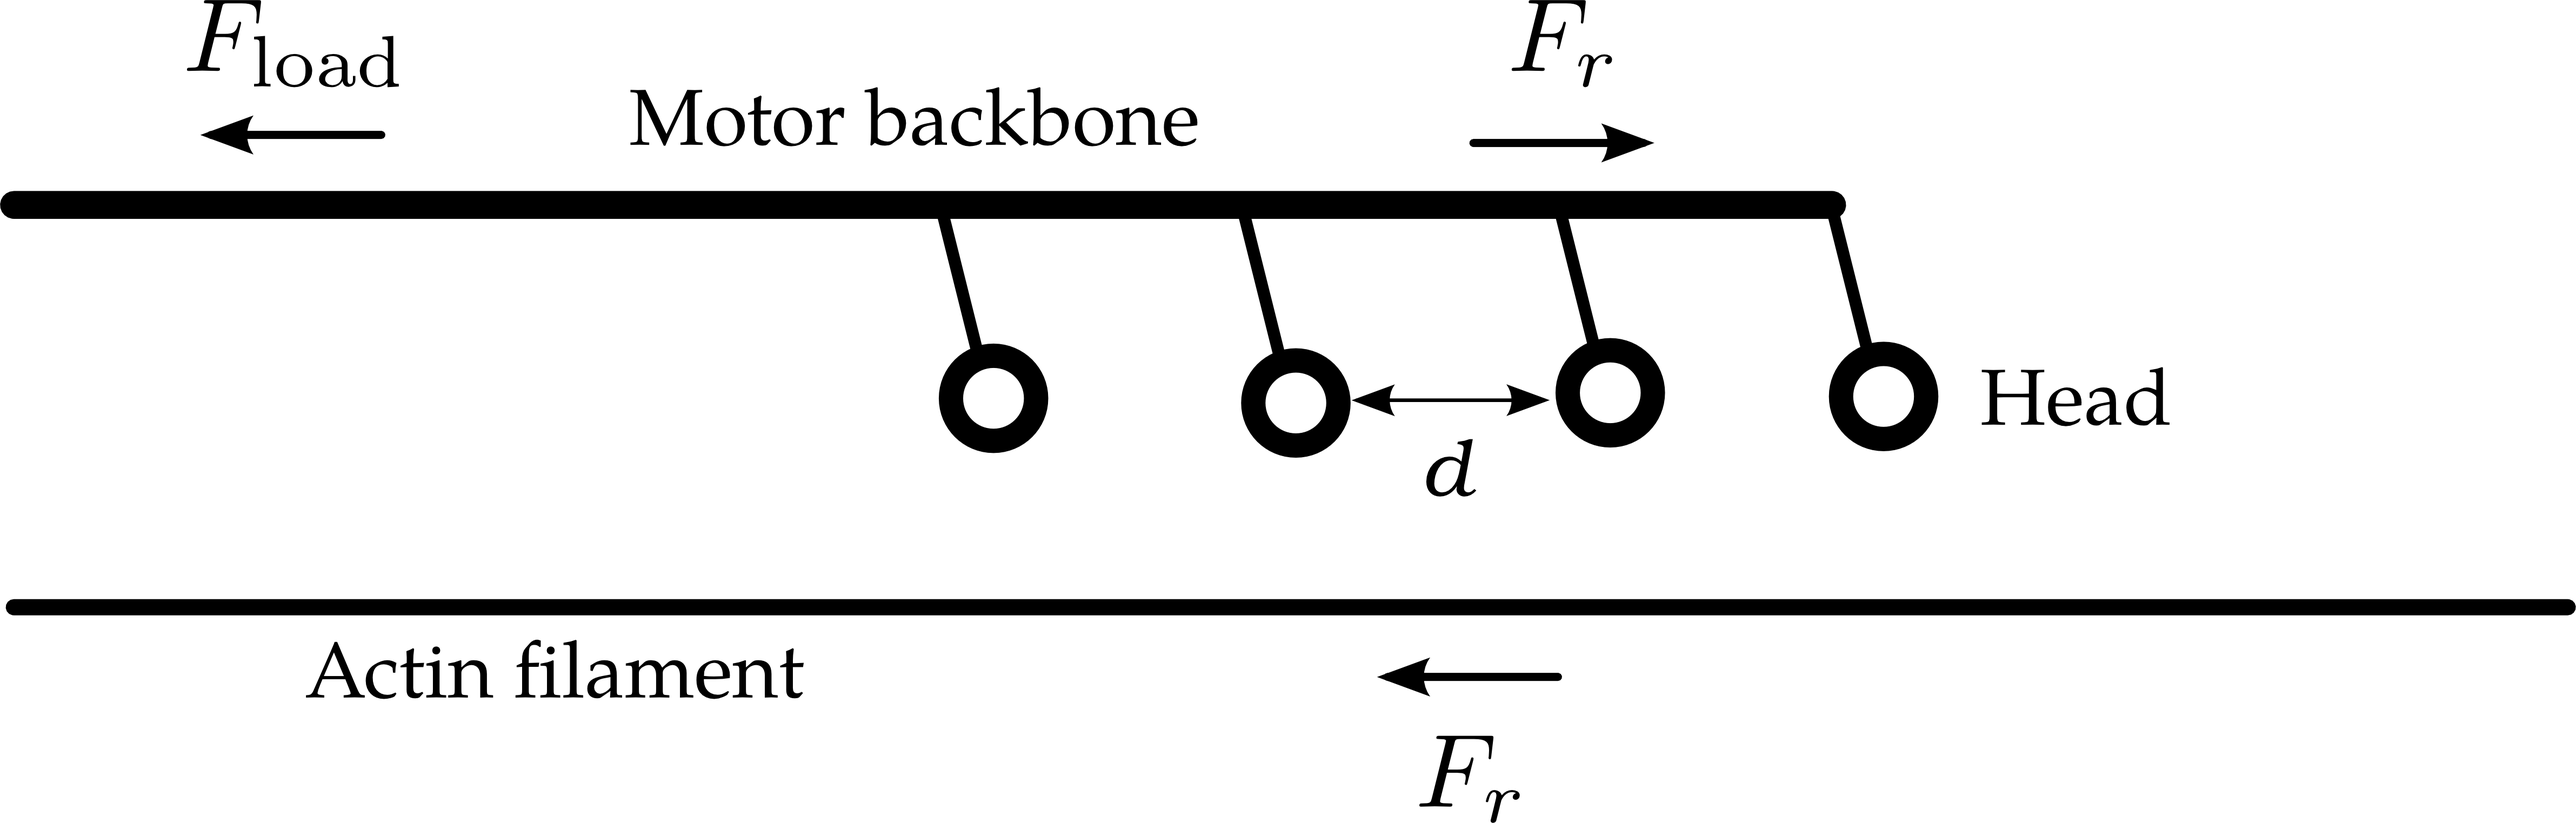
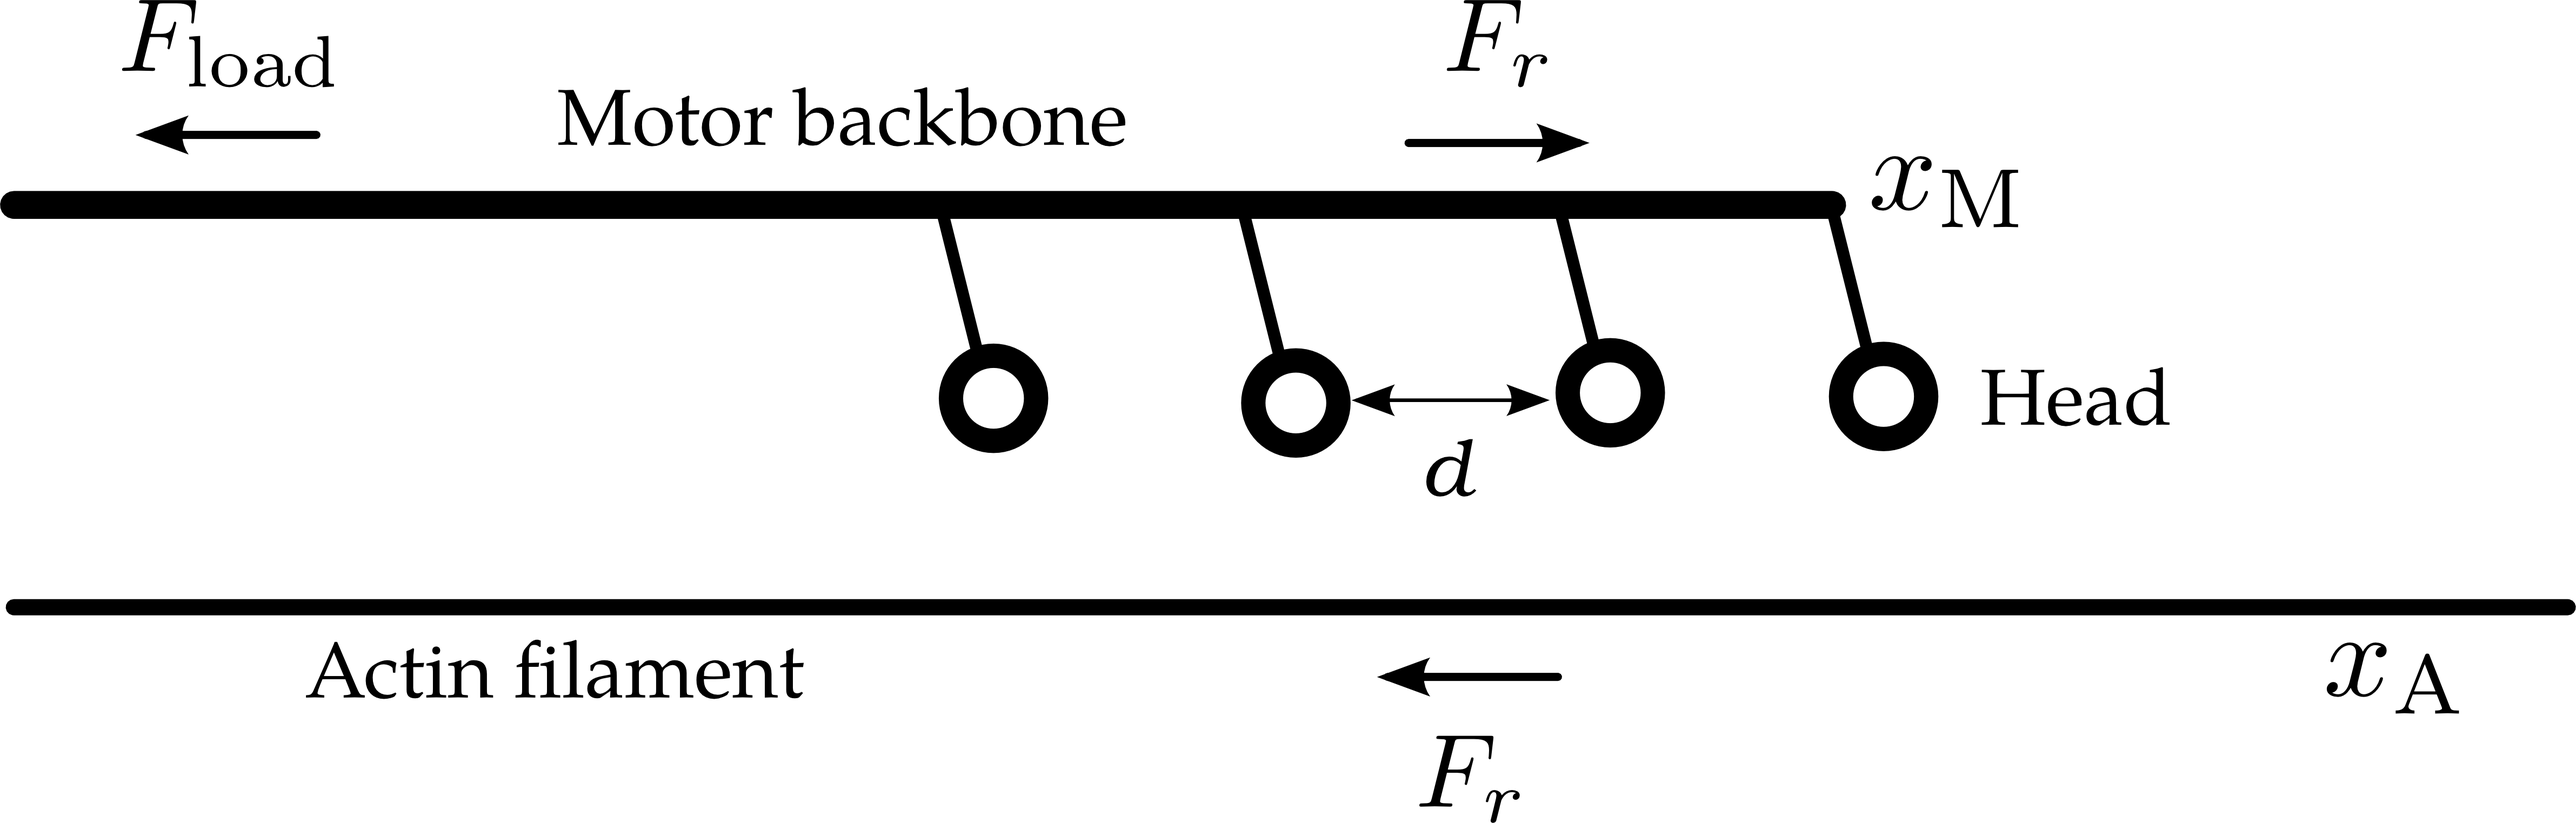
Referrences and illustration labels  Committer: Pieter Baerts <pieter@lp-pieter>
On branch master
 Your branch is behind 'origin/master' by 1 commit, and can be fast-forwarded.
   (use "git pull" to update your local branch)

 Changes to be committed:
	modified:   Ratchet.tex
	modified:   ratchet_illustration.png
	modified:   ratchet_illustration.svg

diff --git a/Ratchet.tex b/Ratchet.tex
@@ -183,8 +183,14 @@ where $x_\text{M}$ denotes the position of the motor's first head,
 $x_\text{A}$ denotes the position of an arbitrary reference point on the actin filament, 
 $\gamma$ is the Stokes drag,
 $T$ is the absolute temperature of the environment,
-$W_\text{M}$ and $W_\text{A}$ denote independent Wiener processes,
-$F_\text{load}$ is an external load on the motor, 
+$W_\text{M}$ and $W_\text{A}$ denote independent Wiener processes
+ for which
+\begin{eqnarray*}
+&\langle W_\text{X}(t)\rangle = 0,&\\
+&\langle W_\text{X}(t)W_\text{X}(s)\rangle = \text{min}\{t,s\}& ,\\
+&\langle W_\text{A}(t)W_\text{M}(t)\rangle = 0,&
+\end{eqnarray*}
+with $\text{X}$ referring to the labels $\text{A}$ and $\text{M}$, $F_\text{load}$ is an external load on the motor, 
 and the interaction potential $V_t$ represents the overall ratchet interaction, 
 which is the sum over individual contributions from all motor heads,
 \begin{equation}
@@ -502,7 +508,7 @@ Deviating far from this ratio means that one of the states become dominant and t
 The main difference between $\lambda_\text{b}/\lambda_\text{u}$ being low or high is the mean amplitude of the interaction with actin. 
 In the ATP bound state the interaction is weaker, 
 which is reflected in the fact that the system is trapped for shorter times close to the local minima and diffuses more. 
-Hence, the variance of the relative velocity is higher when compared to the ATP unbound state. 
+Hence, the variance of the relative velocity is higher when compared to the ATP unbound state. We can conclude that the model achieves mean relative velocities that agrees with experimental values \cite{placcais2009spontaneous,saito1994movement}.
 
 
 \subsection{Force--velocity relation}
@@ -575,7 +581,7 @@ The intersections with the horizontal axis correspond to stall forces,
 while intersections of the curves with the vertical axis correspond to the mean velocities for system without any external load, compare Fig.~\ref{fig:v_k}. 
 We see that for small loads the mean velocity decreases linearly with increasing load. 
 Moreover, the slope of the force -- mean velocity relation increases with the binding rate $\lambda_\text{b}$,
-that is responsible for the monotonous decrease of the stall force $F_\text{stall}$ with respect to the ATP binding rate $\lambda_\text{b}$, see Fig.~\ref{fig:k_Fstall}.
+that is responsible for the monotonous decrease of the stall force $F_\text{stall}$ with respect to the ATP binding rate $\lambda_\text{b}$, see Fig.~\ref{fig:k_Fstall}. The stall forces per head correspond to experimental values found in the literature\cite{kishino1988force,finer1994single}.
 \begin{figure}[t]
 \centering
 \includegraphics[width=0.9\linewidth,height=!]{k_Fstall}
